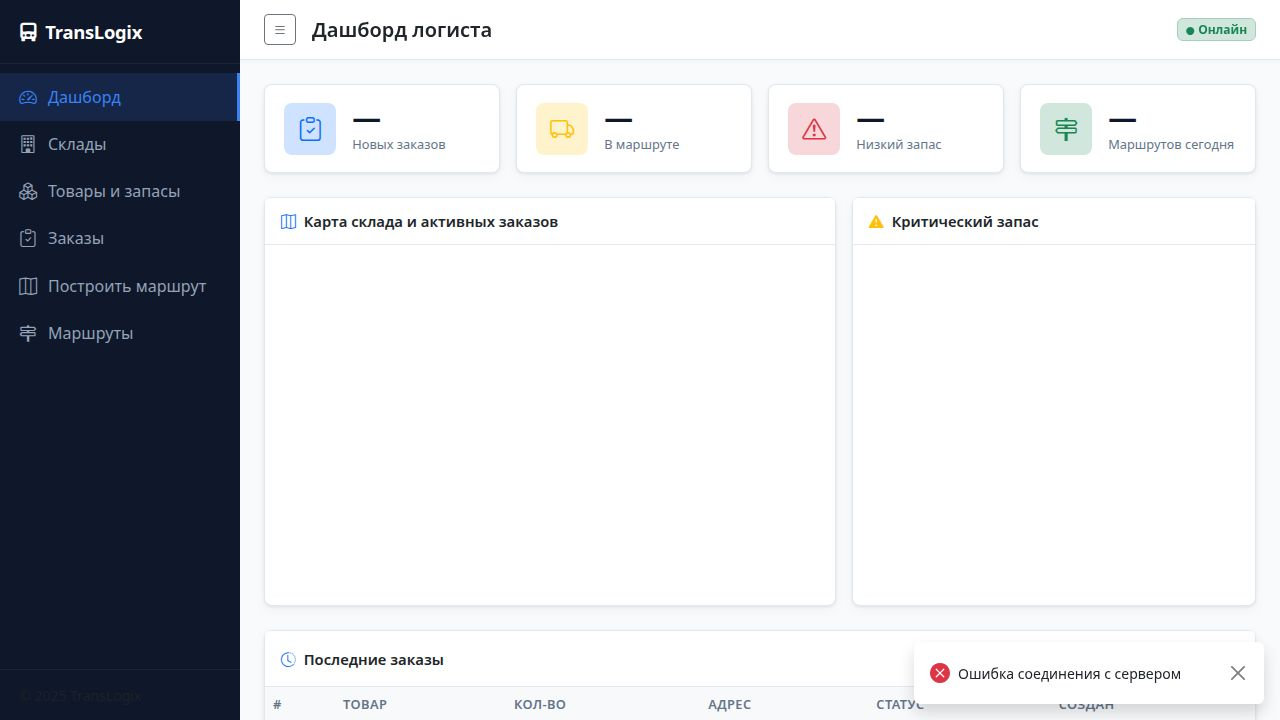
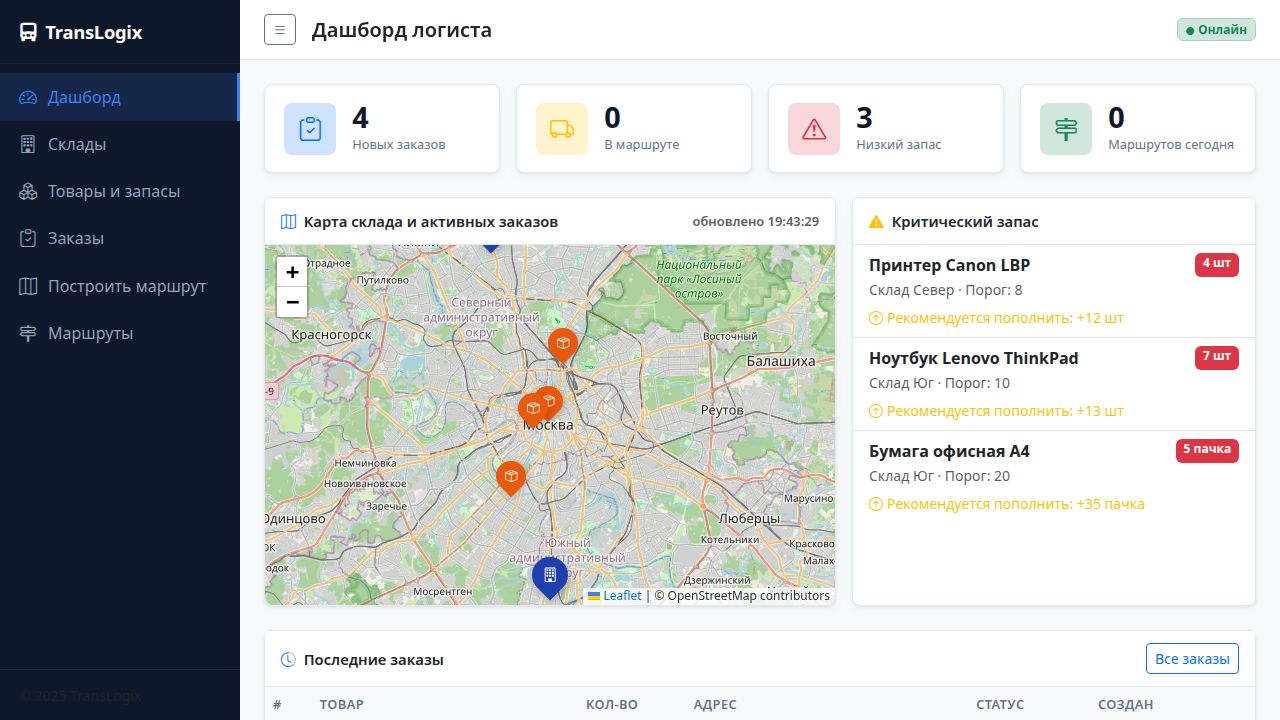
Add interactive map pickers for location selection
Update order and warehouse forms to include a map picker for setting coordinates, allowing users to click on the map to set latitude and longitude.

Replit-Commit-Author: Agent
Replit-Commit-Session-Id: e2489846-330f-4318-b796-17b40d4d2ee8
Replit-Commit-Checkpoint-Type: full_checkpoint
Replit-Commit-Event-Id: 3a64301a-29c4-44c2-9b9f-2b9aafd98009
Replit-Commit-Screenshot-Url: https://storage.googleapis.com/screenshot-production-us-central1/2076197c-5002-4b17-8dd2-d73aeca201ad/e2489846-330f-4318-b796-17b40d4d2ee8/BeVsTCF
Replit-Helium-Checkpoint-Created: true

diff --git a/translogix/templates/warehouses.html b/translogix/templates/warehouses.html
@@ -36,7 +36,7 @@
 
 <!-- Modal -->
 <div class="modal fade" id="warehouseModal" tabindex="-1">
-  <div class="modal-dialog">
+  <div class="modal-dialog modal-lg">
     <div class="modal-content">
       <div class="modal-header">
         <h5 class="modal-title" id="warehouseModalTitle">Склад</h5>
@@ -52,16 +52,34 @@
           <label class="form-label">Адрес <span class="text-danger">*</span></label>
           <input type="text" class="form-control" id="wAddress" placeholder="Москва, ул. Примерная, 1" />
         </div>
-        <div class="row g-2 mb-3">
+
+        <!-- Coordinate inputs + map picker -->
+        <div class="mb-1">
+          <label class="form-label">Координаты <span class="text-danger">*</span>
+            <small class="text-muted fw-normal ms-1">— введите вручную или кликните на карте</small>
+          </label>
+        </div>
+        <div class="row g-2 mb-2">
           <div class="col">
-            <label class="form-label">Широта (lat) <span class="text-danger">*</span></label>
-            <input type="number" step="0.0001" class="form-control" id="wLat" placeholder="55.7558" />
+            <input type="number" step="0.000001" class="form-control" id="wLat" placeholder="55.755800"
+              oninput="syncPickerFromInputs('w')" />
+            <div class="form-text">Широта (lat)</div>
           </div>
           <div class="col">
-            <label class="form-label">Долгота (lon) <span class="text-danger">*</span></label>
-            <input type="number" step="0.0001" class="form-control" id="wLon" placeholder="37.6173" />
+            <input type="number" step="0.000001" class="form-control" id="wLon" placeholder="37.617300"
+              oninput="syncPickerFromInputs('w')" />
+            <div class="form-text">Долгота (lon)</div>
           </div>
         </div>
+        <!-- Map picker -->
+        <div class="rounded border overflow-hidden mb-3" style="height:260px;position:relative;">
+          <div id="wPickerMap" style="height:100%;width:100%;"></div>
+          <div class="position-absolute bottom-0 start-0 m-2 px-2 py-1 rounded"
+               style="background:rgba(255,255,255,.85);font-size:.75rem;pointer-events:none;z-index:1000;">
+            <i class="bi bi-cursor me-1 text-primary"></i>Кликните, чтобы поставить точку
+          </div>
+        </div>
+
         <div class="mb-3">
           <label class="form-label">Контакт</label>
           <input type="text" class="form-control" id="wContact" placeholder="[phone redacted]" />
@@ -80,7 +98,9 @@
 {% block scripts %}
 <script>
 let whMap = null;
+let wPickerMap = null, wPickerMarker = null;
 
+/* ── List map ── */
 async function loadWarehouses() {
   const data = await apiFetch('/api/warehouses');
   if (!data) return;
@@ -103,7 +123,6 @@ async function loadWarehouses() {
       </tr>`).join('');
   }
 
-  // Map
   if (!whMap) {
     whMap = L.map('warehouseMap').setView([55.75, 37.62], 10);
     L.tileLayer('https://{s}.tile.openstreetmap.org/{z}/{x}/{y}.png', { attribution: '© OpenStreetMap' }).addTo(whMap);
@@ -117,26 +136,84 @@ async function loadWarehouses() {
   });
 }
 
+/* ── Picker map ── */
+function initPickerMap(prefix, lat, lon) {
+  const mapId = prefix + 'PickerMap';
+  const center = (lat && lon) ? [lat, lon] : [55.75, 37.62];
+  const zoom   = (lat && lon) ? 14 : 10;
+
+  if (wPickerMap) {
+    wPickerMap.remove();
+    wPickerMap = null;
+    wPickerMarker = null;
+  }
+
+  wPickerMap = L.map(mapId).setView(center, zoom);
+  L.tileLayer('https://{s}.tile.openstreetmap.org/{z}/{x}/{y}.png', { attribution: '© OpenStreetMap' }).addTo(wPickerMap);
+
+  if (lat && lon) {
+    wPickerMarker = L.marker([lat, lon], { draggable: true }).addTo(wPickerMap);
+    wPickerMarker.on('dragend', () => setPickerCoords(prefix, wPickerMarker.getLatLng()));
+  }
+
+  wPickerMap.on('click', e => {
+    if (wPickerMarker) {
+      wPickerMarker.setLatLng(e.latlng);
+    } else {
+      wPickerMarker = L.marker(e.latlng, { draggable: true }).addTo(wPickerMap);
+      wPickerMarker.on('dragend', () => setPickerCoords(prefix, wPickerMarker.getLatLng()));
+    }
+    setPickerCoords(prefix, e.latlng);
+  });
+}
+
+function setPickerCoords(prefix, latlng) {
+  document.getElementById(prefix + 'Lat').value = latlng.lat.toFixed(6);
+  document.getElementById(prefix + 'Lon').value = latlng.lng.toFixed(6);
+}
+
+function syncPickerFromInputs(prefix) {
+  const lat = parseFloat(document.getElementById(prefix + 'Lat').value);
+  const lon = parseFloat(document.getElementById(prefix + 'Lon').value);
+  if (isNaN(lat) || isNaN(lon)) return;
+  if (!wPickerMap) return;
+  if (wPickerMarker) {
+    wPickerMarker.setLatLng([lat, lon]);
+  } else {
+    wPickerMarker = L.marker([lat, lon], { draggable: true }).addTo(wPickerMap);
+    wPickerMarker.on('dragend', () => setPickerCoords(prefix, wPickerMarker.getLatLng()));
+  }
+  wPickerMap.setView([lat, lon], wPickerMap.getZoom());
+}
+
+/* ── Modal open ── */
 function openWarehouseModal(w) {
-  const modal = new bootstrap.Modal(document.getElementById('warehouseModal'));
   document.getElementById('warehouseModalTitle').textContent = w ? 'Редактировать склад' : 'Новый склад';
-  document.getElementById('wId').value = w ? w.id : '';
-  document.getElementById('wName').value = w ? w.name : '';
+  document.getElementById('wId').value      = w ? w.id : '';
+  document.getElementById('wName').value    = w ? w.name : '';
   document.getElementById('wAddress').value = w ? w.address : '';
-  document.getElementById('wLat').value = w ? w.lat : '';
-  document.getElementById('wLon').value = w ? w.lon : '';
+  document.getElementById('wLat').value     = w ? w.lat : '';
+  document.getElementById('wLon').value     = w ? w.lon : '';
   document.getElementById('wContact').value = w ? w.contact : '';
   document.getElementById('warehouseFormError').classList.add('d-none');
+
+  const modal = new bootstrap.Modal(document.getElementById('warehouseModal'));
   modal.show();
+
+  // Init picker after modal is visible so Leaflet can measure the container
+  document.getElementById('warehouseModal').addEventListener('shown.bs.modal', function handler() {
+    initPickerMap('w', w ? parseFloat(w.lat) : null, w ? parseFloat(w.lon) : null);
+    this.removeEventListener('shown.bs.modal', handler);
+  });
 }
 
 async function saveWarehouse() {
   const id = document.getElementById('wId').value;
   const body = {
-    name: document.getElementById('wName').value.trim(),
+    name:    document.getElementById('wName').value.trim(),
     address: document.getElementById('wAddress').value.trim(),
-    lat: parseFloat(document.getElementById('wLat').value),
-    lon: parseFloat(document.getElementById('wLon').value),
+    lat:     parseFloat(document.getElementById('wLat').value),
+    lon:     parseFloat(document.getElementById('wLon').value),
     contact: document.getElementById('wContact').value.trim(),
   };
 
@@ -146,9 +223,9 @@ async function saveWarehouse() {
   }
   errEl.classList.add('d-none');
 
-  const url = id ? `/api/warehouses/${id}` : '/api/warehouses';
+  const url    = id ? `/api/warehouses/${id}` : '/api/warehouses';
   const method = id ? 'PUT' : 'POST';
-  const res = await apiFetch(url, { method, body: JSON.stringify(body) });
+  const res    = await apiFetch(url, { method, body: JSON.stringify(body) });
   if (res) {
     bootstrap.Modal.getInstance(document.getElementById('warehouseModal')).hide();
     showToast('Склад сохранён', 'success');

diff --git a/translogix/templates/orders.html b/translogix/templates/orders.html
@@ -51,7 +51,7 @@
         <button type="button" class="btn-close" data-bs-dismiss="modal"></button>
       </div>
       <div class="modal-body">
-        <div class="row g-3">
+        <div class="row g-3 mb-3">
           <div class="col-md-6">
             <label class="form-label">Товар <span class="text-danger">*</span></label>
             <select class="form-select" id="oProduct"></select>
@@ -64,15 +64,35 @@
             <label class="form-label">Адрес доставки <span class="text-danger">*</span></label>
             <input type="text" class="form-control" id="oAddress" placeholder="Москва, ул. Примерная, 1" />
           </div>
-          <div class="col-md-6">
-            <label class="form-label">Широта (lat) <span class="text-danger">*</span></label>
-            <input type="number" step="0.0001" class="form-control" id="oLat" placeholder="55.7558" />
+        </div>
+
+        <!-- Coordinate inputs + map picker -->
+        <div class="mb-1">
+          <label class="form-label">Координаты точки доставки <span class="text-danger">*</span>
+            <small class="text-muted fw-normal ms-1">— введите вручную или кликните на карте</small>
+          </label>
+        </div>
+        <div class="row g-2 mb-2">
+          <div class="col">
+            <input type="number" step="0.000001" class="form-control" id="oLat" placeholder="55.755800"
+              oninput="syncOrderPickerFromInputs()" />
+            <div class="form-text">Широта (lat)</div>
           </div>
-          <div class="col-md-6">
-            <label class="form-label">Долгота (lon) <span class="text-danger">*</span></label>
-            <input type="number" step="0.0001" class="form-control" id="oLon" placeholder="37.6173" />
+          <div class="col">
+            <input type="number" step="0.000001" class="form-control" id="oLon" placeholder="37.617300"
+              oninput="syncOrderPickerFromInputs()" />
+            <div class="form-text">Долгота (lon)</div>
           </div>
         </div>
+        <!-- Map picker -->
+        <div class="rounded border overflow-hidden mb-1" style="height:260px;position:relative;">
+          <div id="oPickerMap" style="height:100%;width:100%;"></div>
+          <div class="position-absolute bottom-0 start-0 m-2 px-2 py-1 rounded"
+               style="background:rgba(255,255,255,.85);font-size:.75rem;pointer-events:none;z-index:1000;">
+            <i class="bi bi-cursor me-1 text-primary"></i>Кликните, чтобы указать место доставки
+          </div>
+        </div>
+
         <div id="orderFormError" class="alert alert-danger d-none mt-3"></div>
       </div>
       <div class="modal-footer">
@@ -87,7 +107,9 @@
 {% block scripts %}
 <script>
 let ordersData = [], selectedOrders = new Set();
+let oPickerMap = null, oPickerMarker = null;
 
+/* ── Orders list ── */
 async function loadOrders() {
   const status = document.getElementById('statusFilter').value;
   const url = status ? `/api/orders?status=${status}` : '/api/orders';
@@ -101,7 +123,7 @@ function renderOrders() {
     tbody.innerHTML = '<tr><td colspan="9" class="text-center text-muted py-4">Нет заказов</td></tr>'; return;
   }
   tbody.innerHTML = ordersData.map(o => {
-    const checked = selectedOrders.has(o.id);
+    const checked  = selectedOrders.has(o.id);
     const canSelect = o.status === 'new';
     return `<tr class="${checked ? 'table-primary' : ''}">
       <td><input type="checkbox" class="order-cb" value="${o.id}" ${checked ? 'checked' : ''} ${!canSelect ? 'disabled' : ''} onchange="toggleOrder(${o.id}, this.checked)" /></td>
@@ -146,26 +168,70 @@ function goToBuildRoute() {
   window.location.href = '/route-builder';
 }
 
+/* ── Order picker map ── */
+function initOrderPickerMap() {
+  if (oPickerMap) { oPickerMap.remove(); oPickerMap = null; oPickerMarker = null; }
+
+  oPickerMap = L.map('oPickerMap').setView([55.75, 37.62], 10);
+  L.tileLayer('https://{s}.tile.openstreetmap.org/{z}/{x}/{y}.png', { attribution: '© OpenStreetMap' }).addTo(oPickerMap);
+
+  oPickerMap.on('click', e => {
+    if (oPickerMarker) {
+      oPickerMarker.setLatLng(e.latlng);
+    } else {
+      oPickerMarker = L.marker(e.latlng, { draggable: true }).addTo(oPickerMap);
+      oPickerMarker.on('dragend', () => setOrderCoords(oPickerMarker.getLatLng()));
+    }
+    setOrderCoords(e.latlng);
+  });
+}
+
+function setOrderCoords(latlng) {
+  document.getElementById('oLat').value = latlng.lat.toFixed(6);
+  document.getElementById('oLon').value = latlng.lng.toFixed(6);
+}
+
+function syncOrderPickerFromInputs() {
+  const lat = parseFloat(document.getElementById('oLat').value);
+  const lon = parseFloat(document.getElementById('oLon').value);
+  if (isNaN(lat) || isNaN(lon) || !oPickerMap) return;
+  if (oPickerMarker) {
+    oPickerMarker.setLatLng([lat, lon]);
+  } else {
+    oPickerMarker = L.marker([lat, lon], { draggable: true }).addTo(oPickerMap);
+    oPickerMarker.on('dragend', () => setOrderCoords(oPickerMarker.getLatLng()));
+  }
+  oPickerMap.setView([lat, lon], oPickerMap.getZoom());
+}
+
+/* ── Modal open ── */
 async function openOrderModal() {
   const products = await apiFetch('/api/products');
   const pSel = document.getElementById('oProduct');
   pSel.innerHTML = products.map(p => `<option value="${p.id}">${p.name} (${p.unit})</option>`).join('');
-  document.getElementById('oQty').value = '';
+  document.getElementById('oQty').value     = '';
   document.getElementById('oAddress').value = '';
-  document.getElementById('oLat').value = '';
-  document.getElementById('oLon').value = '';
+  document.getElementById('oLat').value     = '';
+  document.getElementById('oLon').value     = '';
   document.getElementById('orderFormError').classList.add('d-none');
-  new bootstrap.Modal(document.getElementById('orderModal')).show();
+
+  const modal = new bootstrap.Modal(document.getElementById('orderModal'));
+  modal.show();
+
+  document.getElementById('orderModal').addEventListener('shown.bs.modal', function handler() {
+    initOrderPickerMap();
+    this.removeEventListener('shown.bs.modal', handler);
+  });
 }
 
 async function saveOrder() {
   const errEl = document.getElementById('orderFormError');
   const body = {
-    product_id: parseInt(document.getElementById('oProduct').value),
-    quantity: parseFloat(document.getElementById('oQty').value),
+    product_id:       parseInt(document.getElementById('oProduct').value),
+    quantity:         parseFloat(document.getElementById('oQty').value),
     delivery_address: document.getElementById('oAddress').value.trim(),
-    delivery_lat: parseFloat(document.getElementById('oLat').value),
-    delivery_lon: parseFloat(document.getElementById('oLon').value),
+    delivery_lat:     parseFloat(document.getElementById('oLat').value),
+    delivery_lon:     parseFloat(document.getElementById('oLon').value),
   };
   if (!body.delivery_address || isNaN(body.quantity) || isNaN(body.delivery_lat) || isNaN(body.delivery_lon)) {
     errEl.textContent = 'Заполните все обязательные поля корректно.'; errEl.classList.remove('d-none'); return;